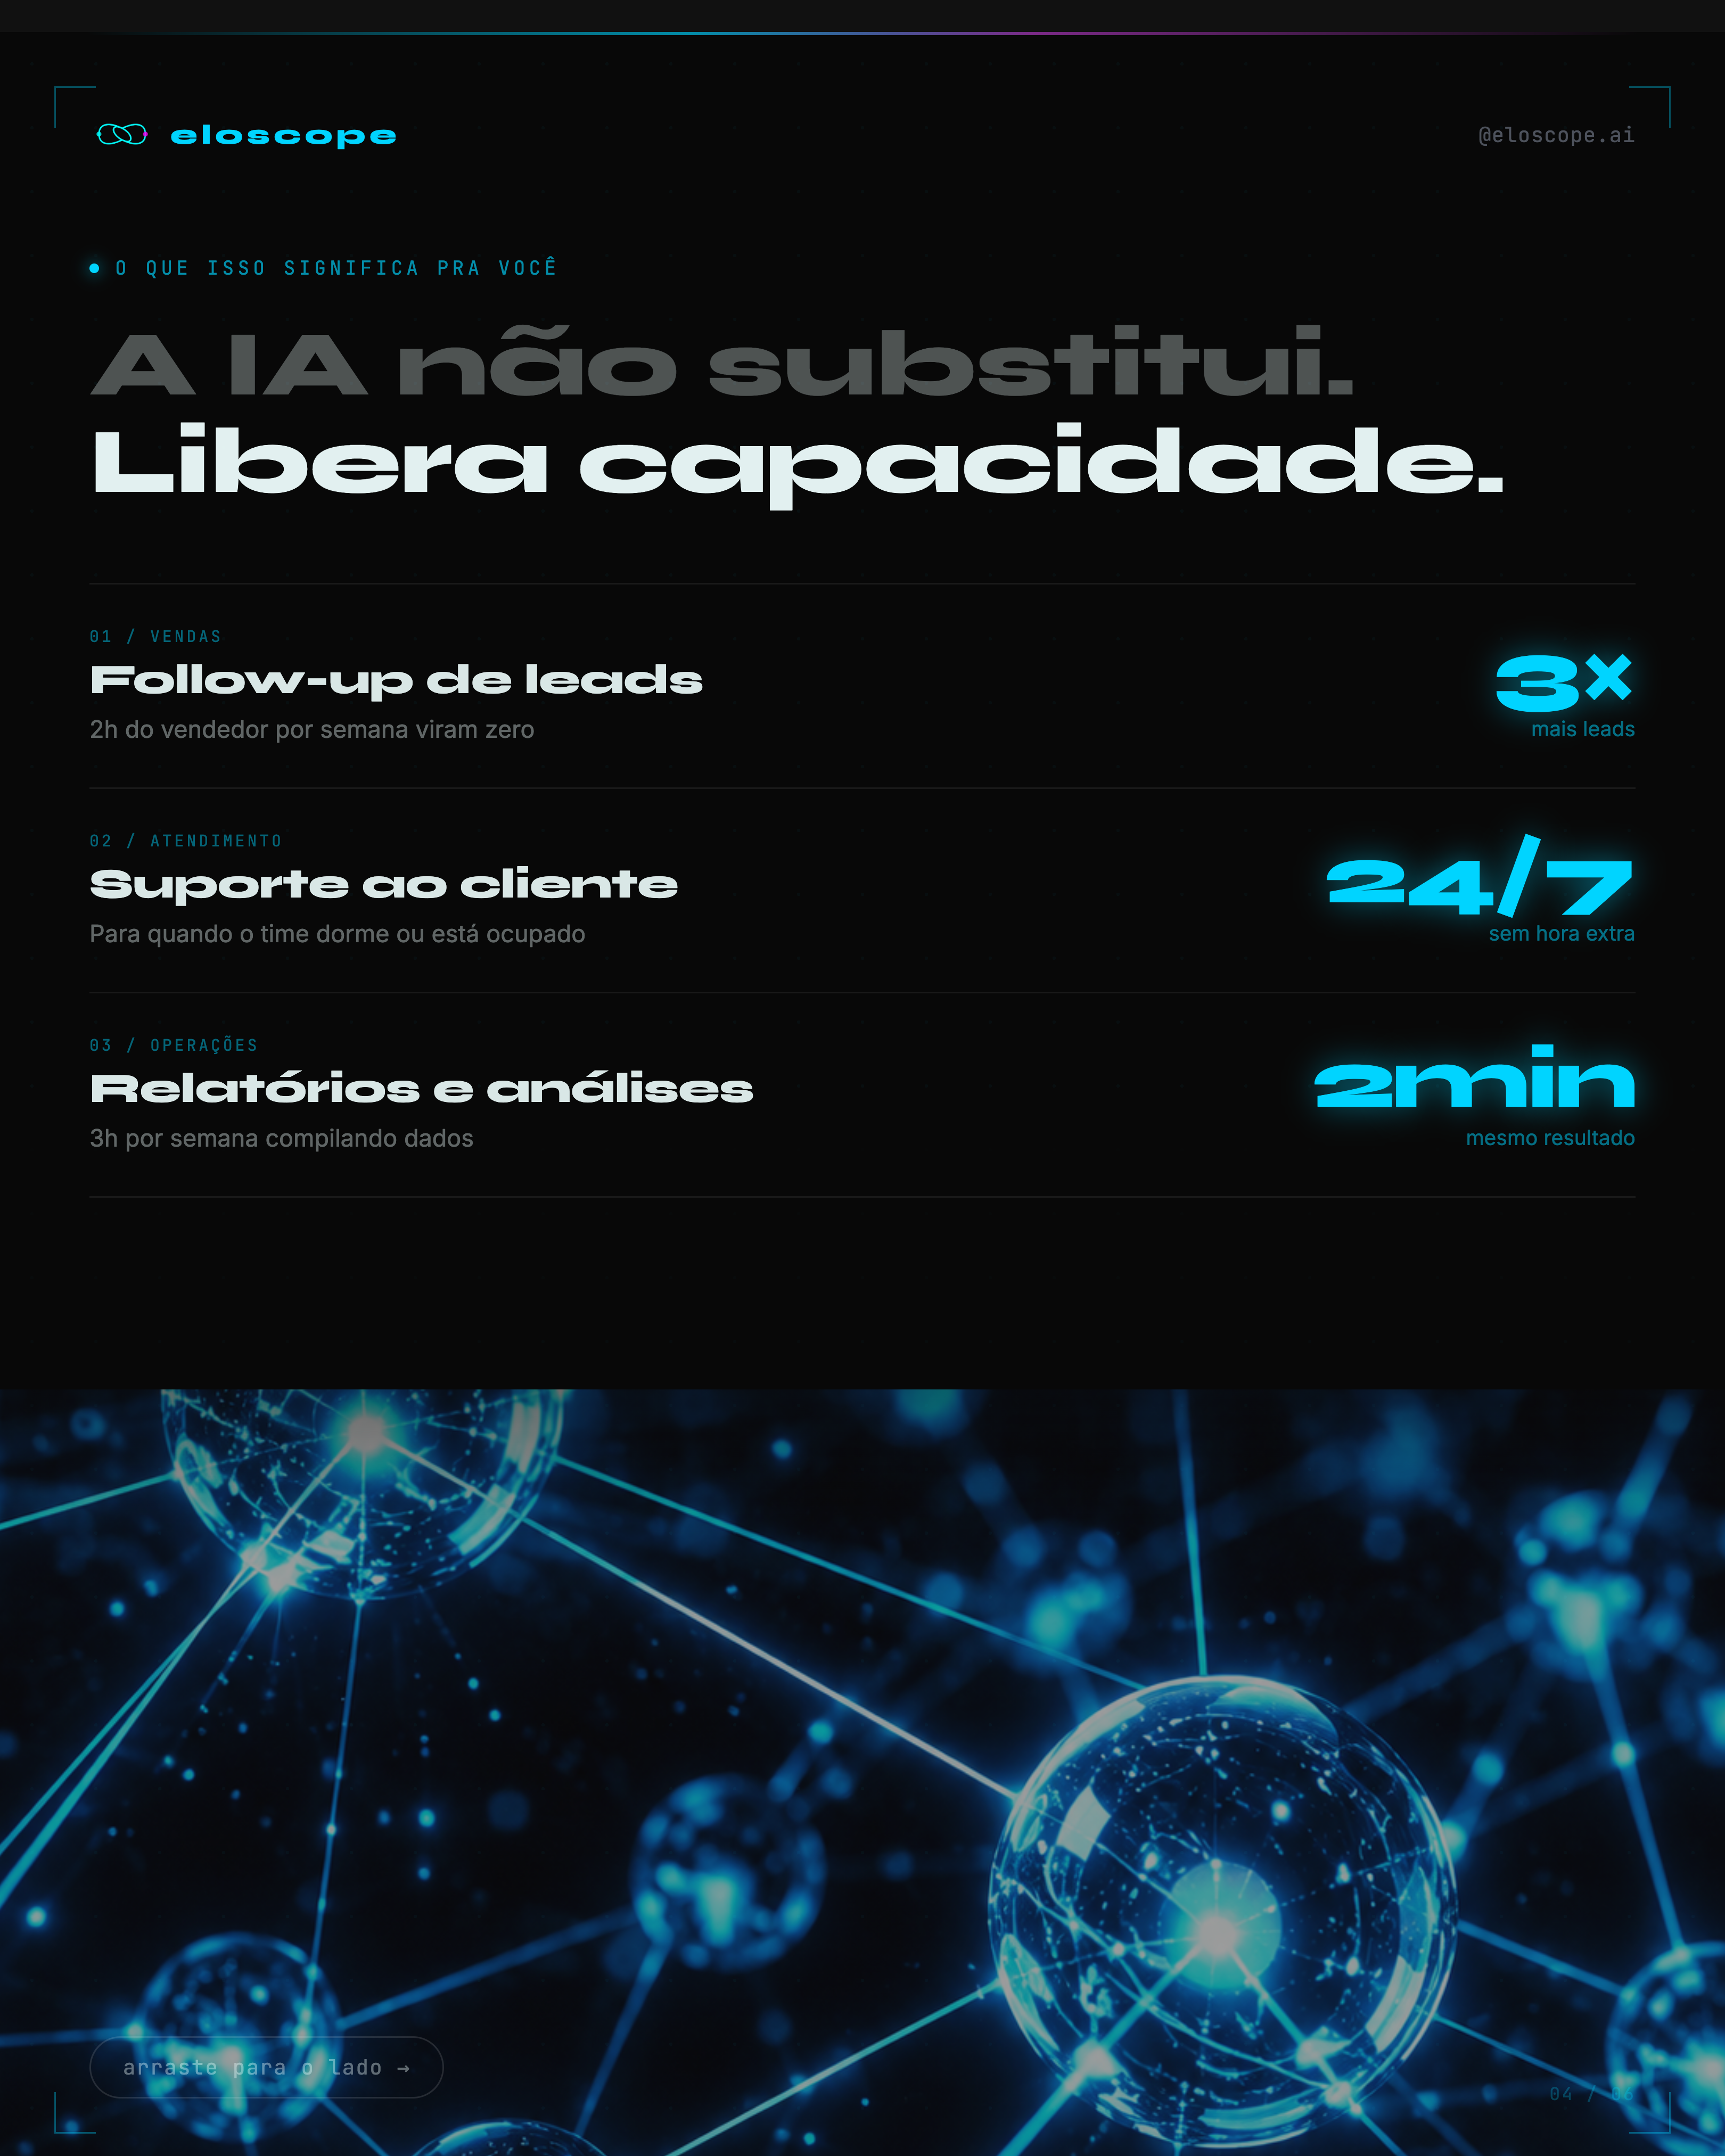
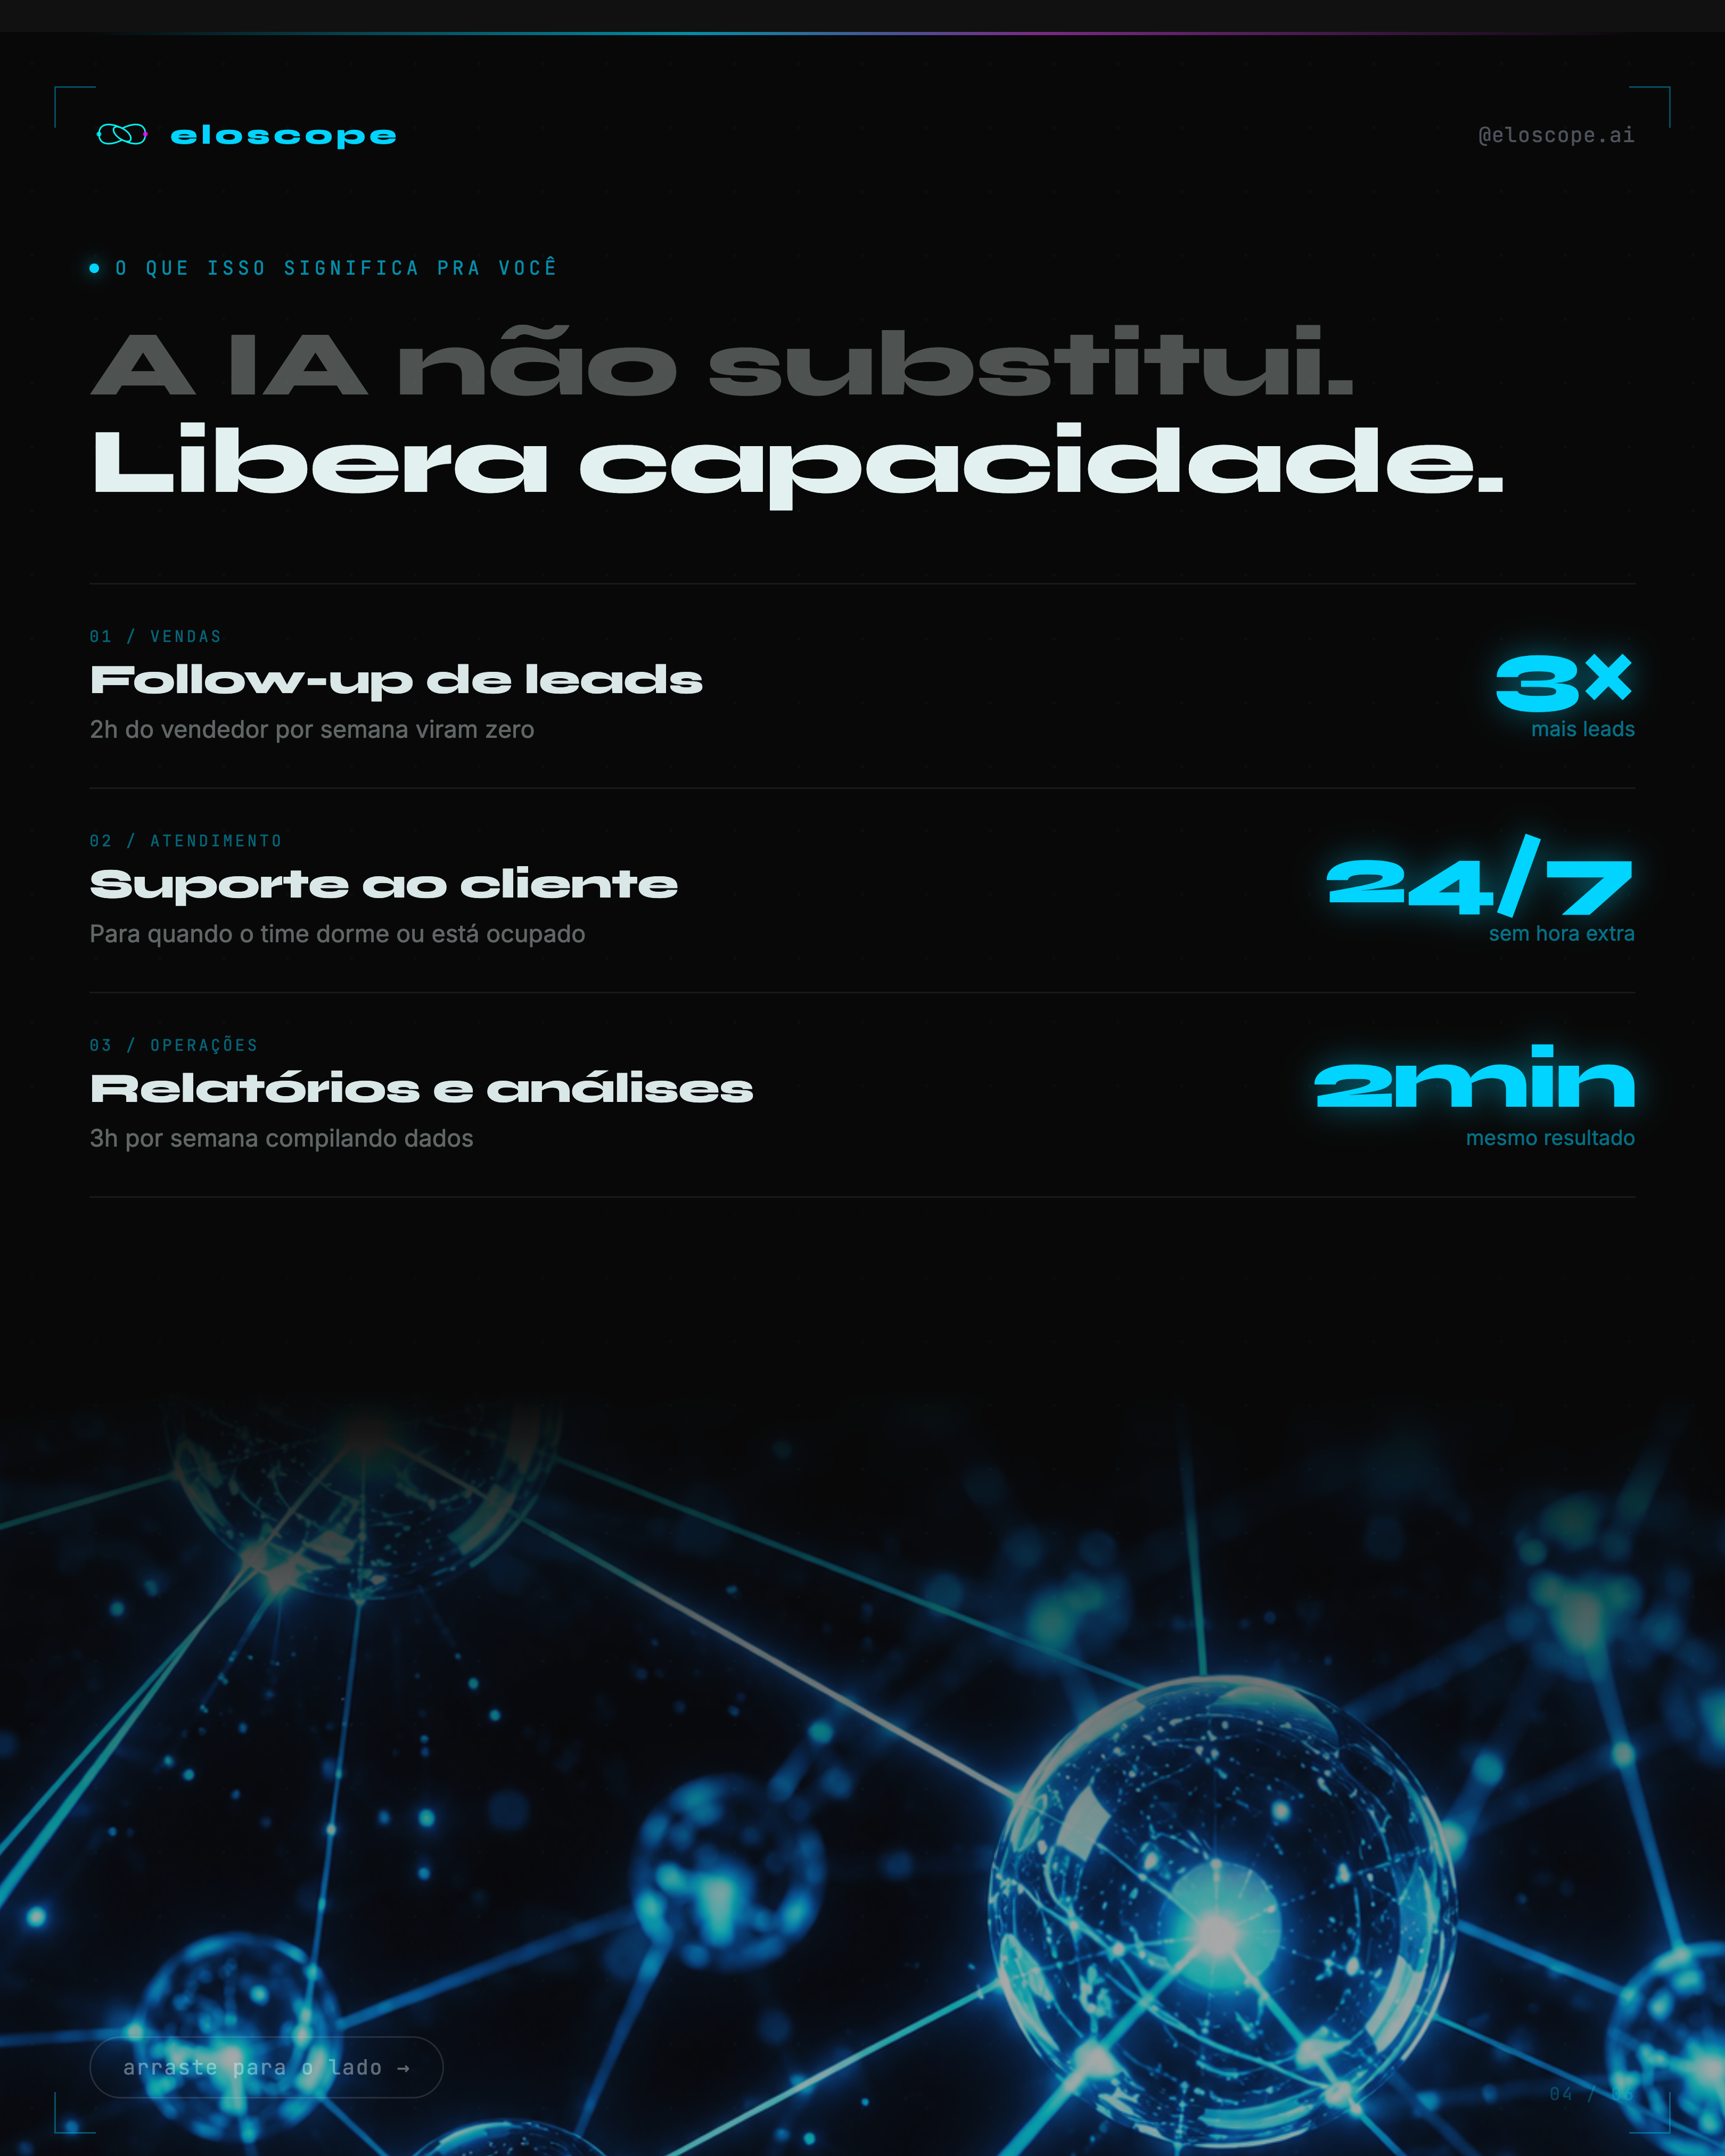
sessao: carrossel 03 slides 02+04 corrigidos (blend mask + layout overlap)

diff --git a/areas/marketing/projetos/instagram/carrosseis/03-duolingo-1-bilhao/html/02-evidencia.html b/areas/marketing/projetos/instagram/carrosseis/03-duolingo-1-bilhao/html/02-evidencia.html
@@ -32,17 +32,19 @@
 
   /* Coin 3D hero — preenche o espaço abaixo do callout */
   .coin-wrap {
-    position: absolute; bottom: -100px; left: 50%; transform: translateX(-50%);
+    position: absolute; bottom: -140px; left: 50%; transform: translateX(-50%);
     width: 680px; height: 680px;
     z-index: 6; pointer-events: none;
     mix-blend-mode: screen;
+    -webkit-mask-image: linear-gradient(to bottom, transparent 0%, rgba(0,0,0,0.5) 30%, black 60%);
+    mask-image: linear-gradient(to bottom, transparent 0%, rgba(0,0,0,0.5) 30%, black 60%);
   }
-  .coin-wrap img { width: 100%; height: 100%; object-fit: contain; display: block; }
+  .coin-wrap img { width: 100%; height: 100%; object-fit: contain; display: block; opacity: 0.85; }
 
   /* Fade suave no topo da moeda */
   .coin-fade {
     position: absolute; bottom: 0; left: 0; right: 0; height: 580px;
-    background: linear-gradient(to bottom, #080808 0%, transparent 22%);
+    background: linear-gradient(to bottom, #080808 0%, transparent 28%);
     z-index: 7; pointer-events: none;
   }
 
@@ -107,14 +109,14 @@
 
   /* Divider */
   .divider {
-    position: absolute; top: 490px; left: 56px; right: 56px;
+    position: absolute; top: 570px; left: 56px; right: 56px;
     height: 1px; background: linear-gradient(90deg, transparent, rgba(0,212,255,0.25) 30%, rgba(0,212,255,0.25) 70%, transparent);
     z-index: 15;
   }
 
   /* 3-column stats */
   .stats-row {
-    position: absolute; top: 520px; left: 56px; right: 56px;
+    position: absolute; top: 600px; left: 56px; right: 56px;
     display: flex; gap: 0; z-index: 15;
   }
   .stat-col {
@@ -135,7 +137,7 @@
 
   /* Bottom callout */
   .callout {
-    position: absolute; top: 690px; left: 56px; right: 56px; z-index: 15;
+    position: absolute; top: 790px; left: 56px; right: 56px; z-index: 15;
     border: 1px solid rgba(0,212,255,0.18);
     border-radius: 16px;
     padding: 28px 32px;

diff --git a/areas/marketing/projetos/instagram/carrosseis/03-duolingo-1-bilhao/html/04-traduzindo.html b/areas/marketing/projetos/instagram/carrosseis/03-duolingo-1-bilhao/html/04-traduzindo.html
@@ -20,11 +20,13 @@
     position: absolute; bottom: -100px; left: -10px; right: -10px;
     height: 600px; z-index: 3; pointer-events: none;
     mix-blend-mode: screen;
+    -webkit-mask-image: linear-gradient(to bottom, transparent 0%, rgba(0,0,0,0.6) 25%, black 55%);
+    mask-image: linear-gradient(to bottom, transparent 0%, rgba(0,0,0,0.6) 25%, black 55%);
   }
-  .neural-wrap img { width: 100%; height: 100%; object-fit: cover; object-position: center bottom; display: block; opacity: 0.60; }
+  .neural-wrap img { width: 100%; height: 100%; object-fit: cover; object-position: center bottom; display: block; opacity: 0.65; }
   .neural-fade {
     position: absolute; bottom: 0; left: 0; right: 0; height: 680px;
-    background: linear-gradient(to bottom, #080808 0%, transparent 40%);
+    background: linear-gradient(to bottom, #080808 0%, transparent 35%);
     z-index: 4; pointer-events: none;
   }
 

diff --git a/memory/sessions/2026-05-07.md b/memory/sessions/2026-05-07.md
@@ -13,3 +13,16 @@
 ## Em aberto
 - Inserir slide ROI no `slides-elo-os-v4.html` entre Slide 8 e Slide 9 (counter 11 → 12)
 - Preencher número real do Lucas no Slide 11 (atualmente `(19) 99XXX-XXXX`)
+
+---
+
+## Sessão 2
+
+### O que foi feito
+- Carrossel 03 Slide 04: corrigido blend da rede neural — adicionado `mask-image` no `.neural-wrap` (fade transparent→opaco), eliminando linha de corte visível entre imagem e fundo
+- Carrossel 03 Slide 02: corrigido coin-wrap com `mask-image` + `bottom: -140px` (era -100px) para parar sobreposição sobre callout
+- Carrossel 03 Slide 02: corrigido texto "sem contratar…" invadindo stats — divider 490→570px, stats-row 520→600px, callout 690→790px
+- PNGs 02 e 04 regenerados via Puppeteer
+
+### Em aberto
+- Carrossel 03 restante: publicação no Instagram pendente